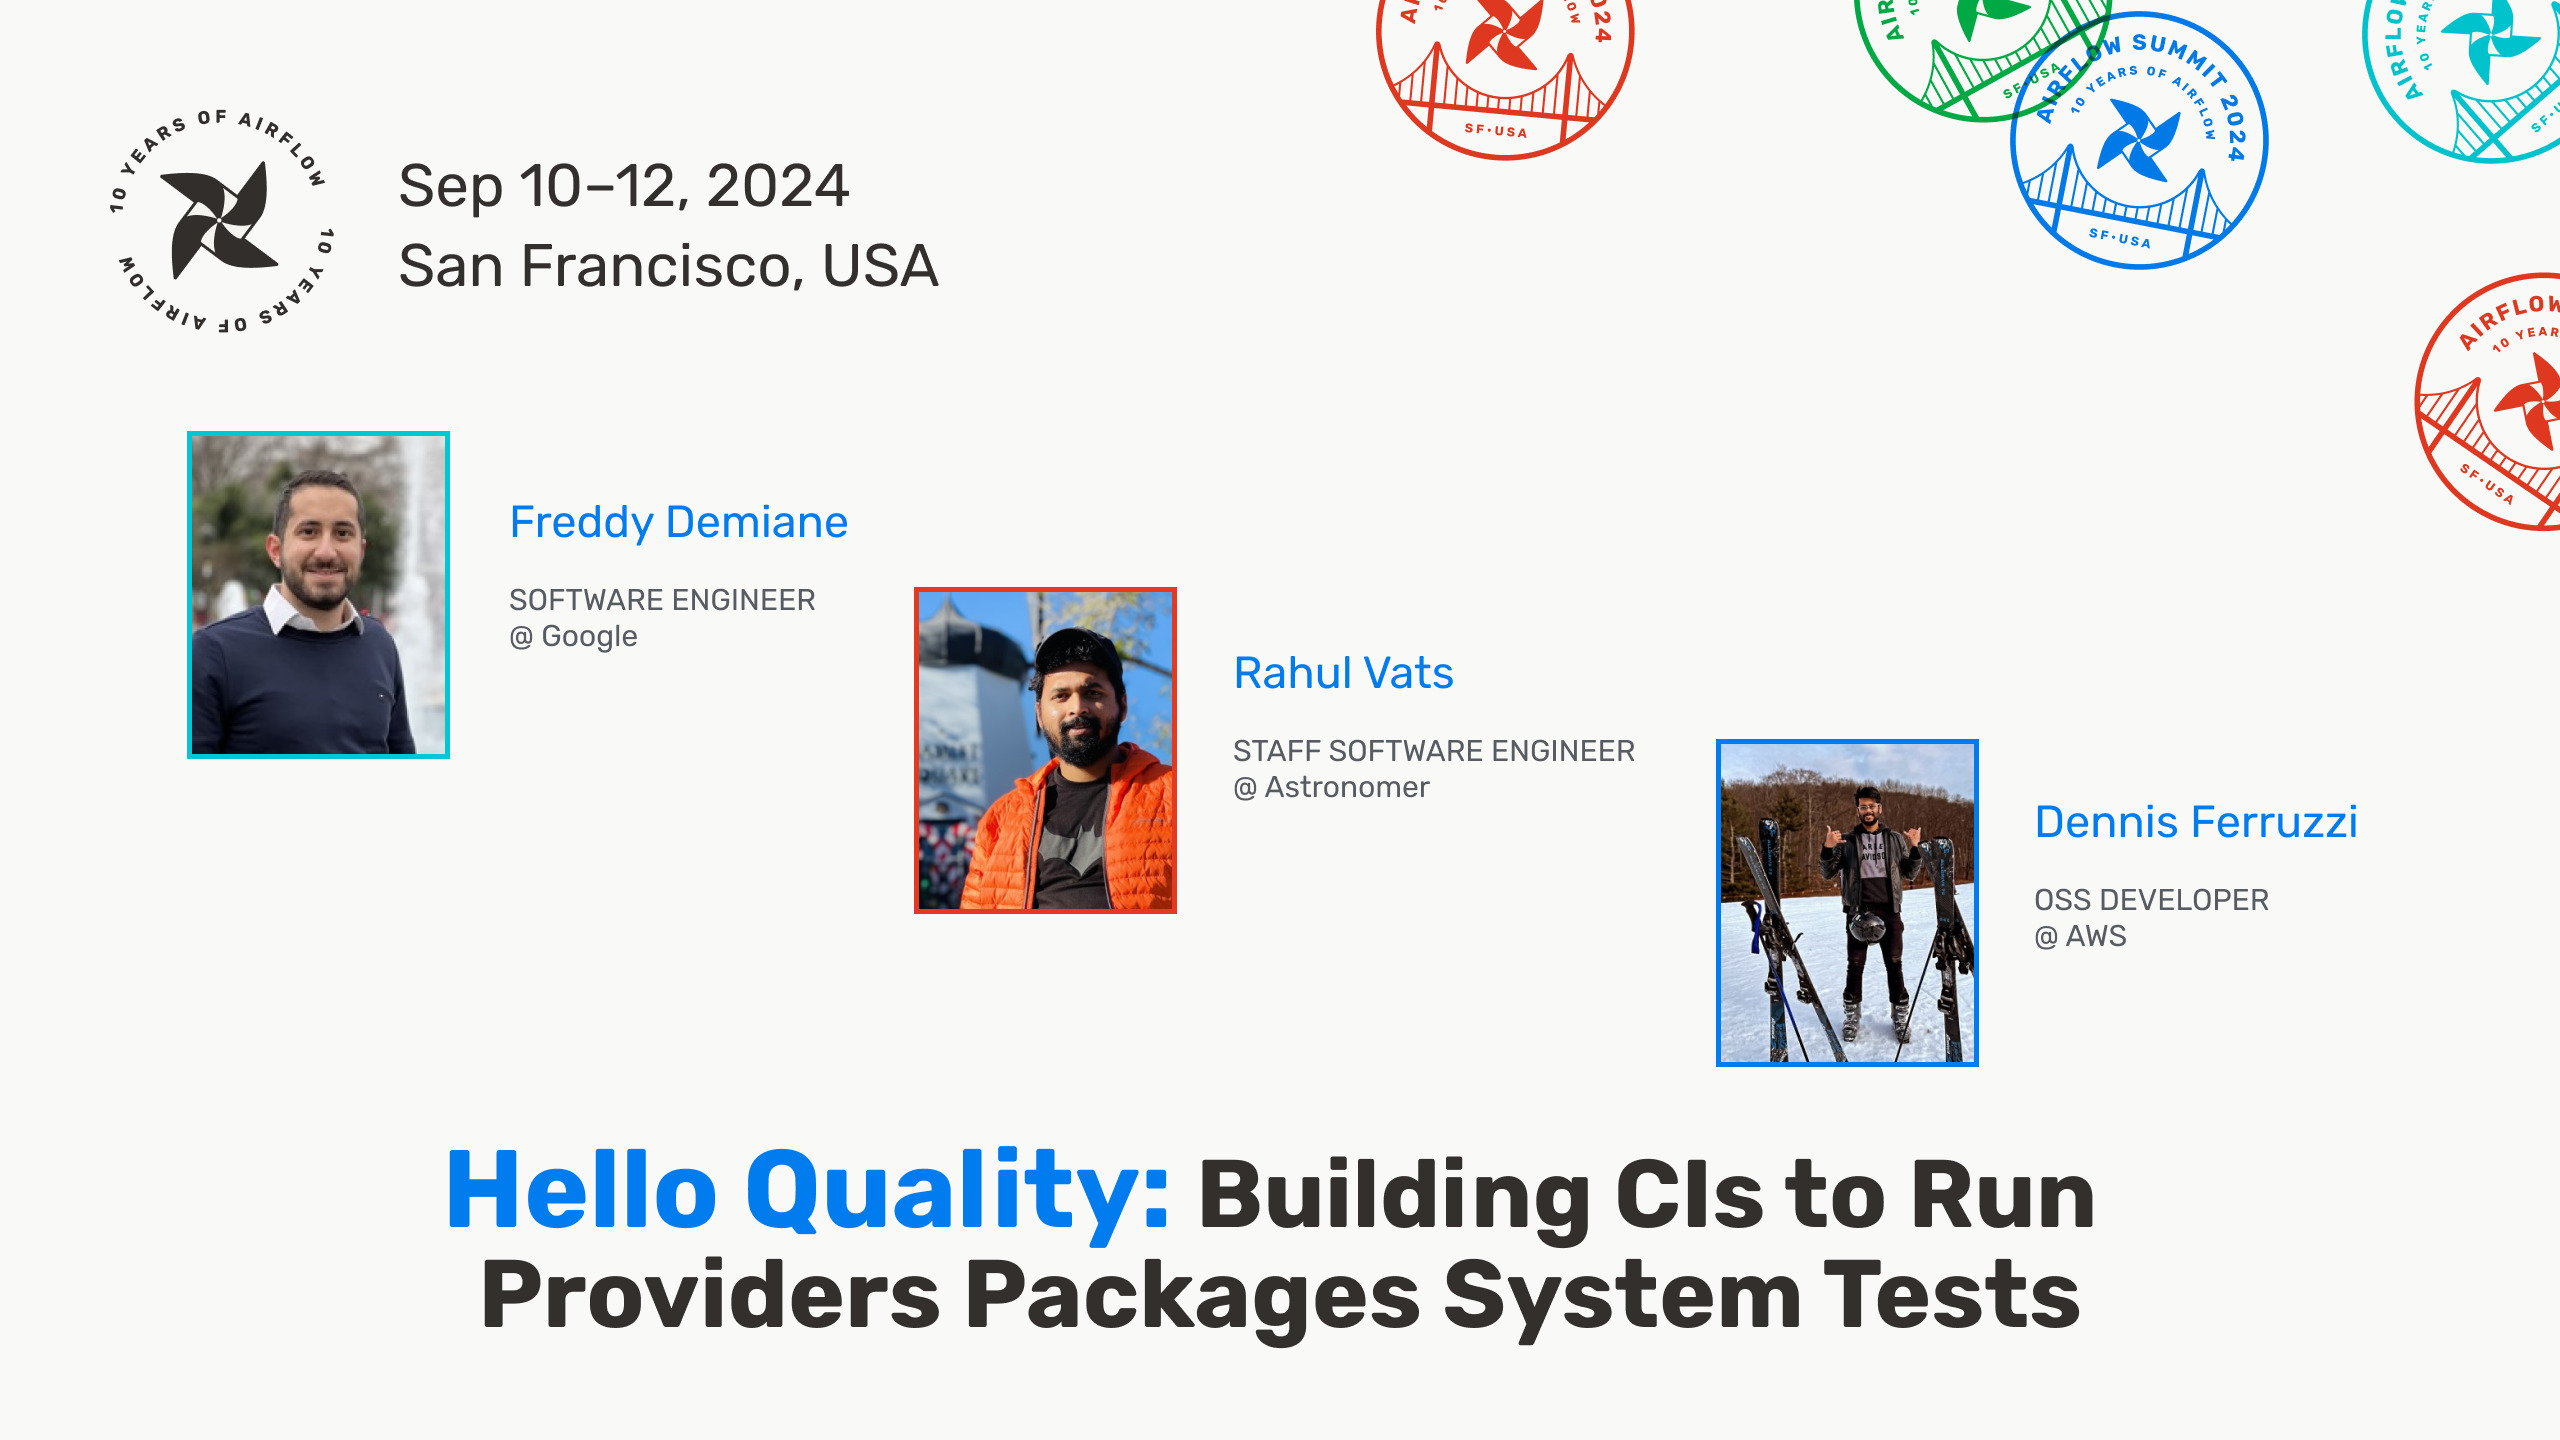
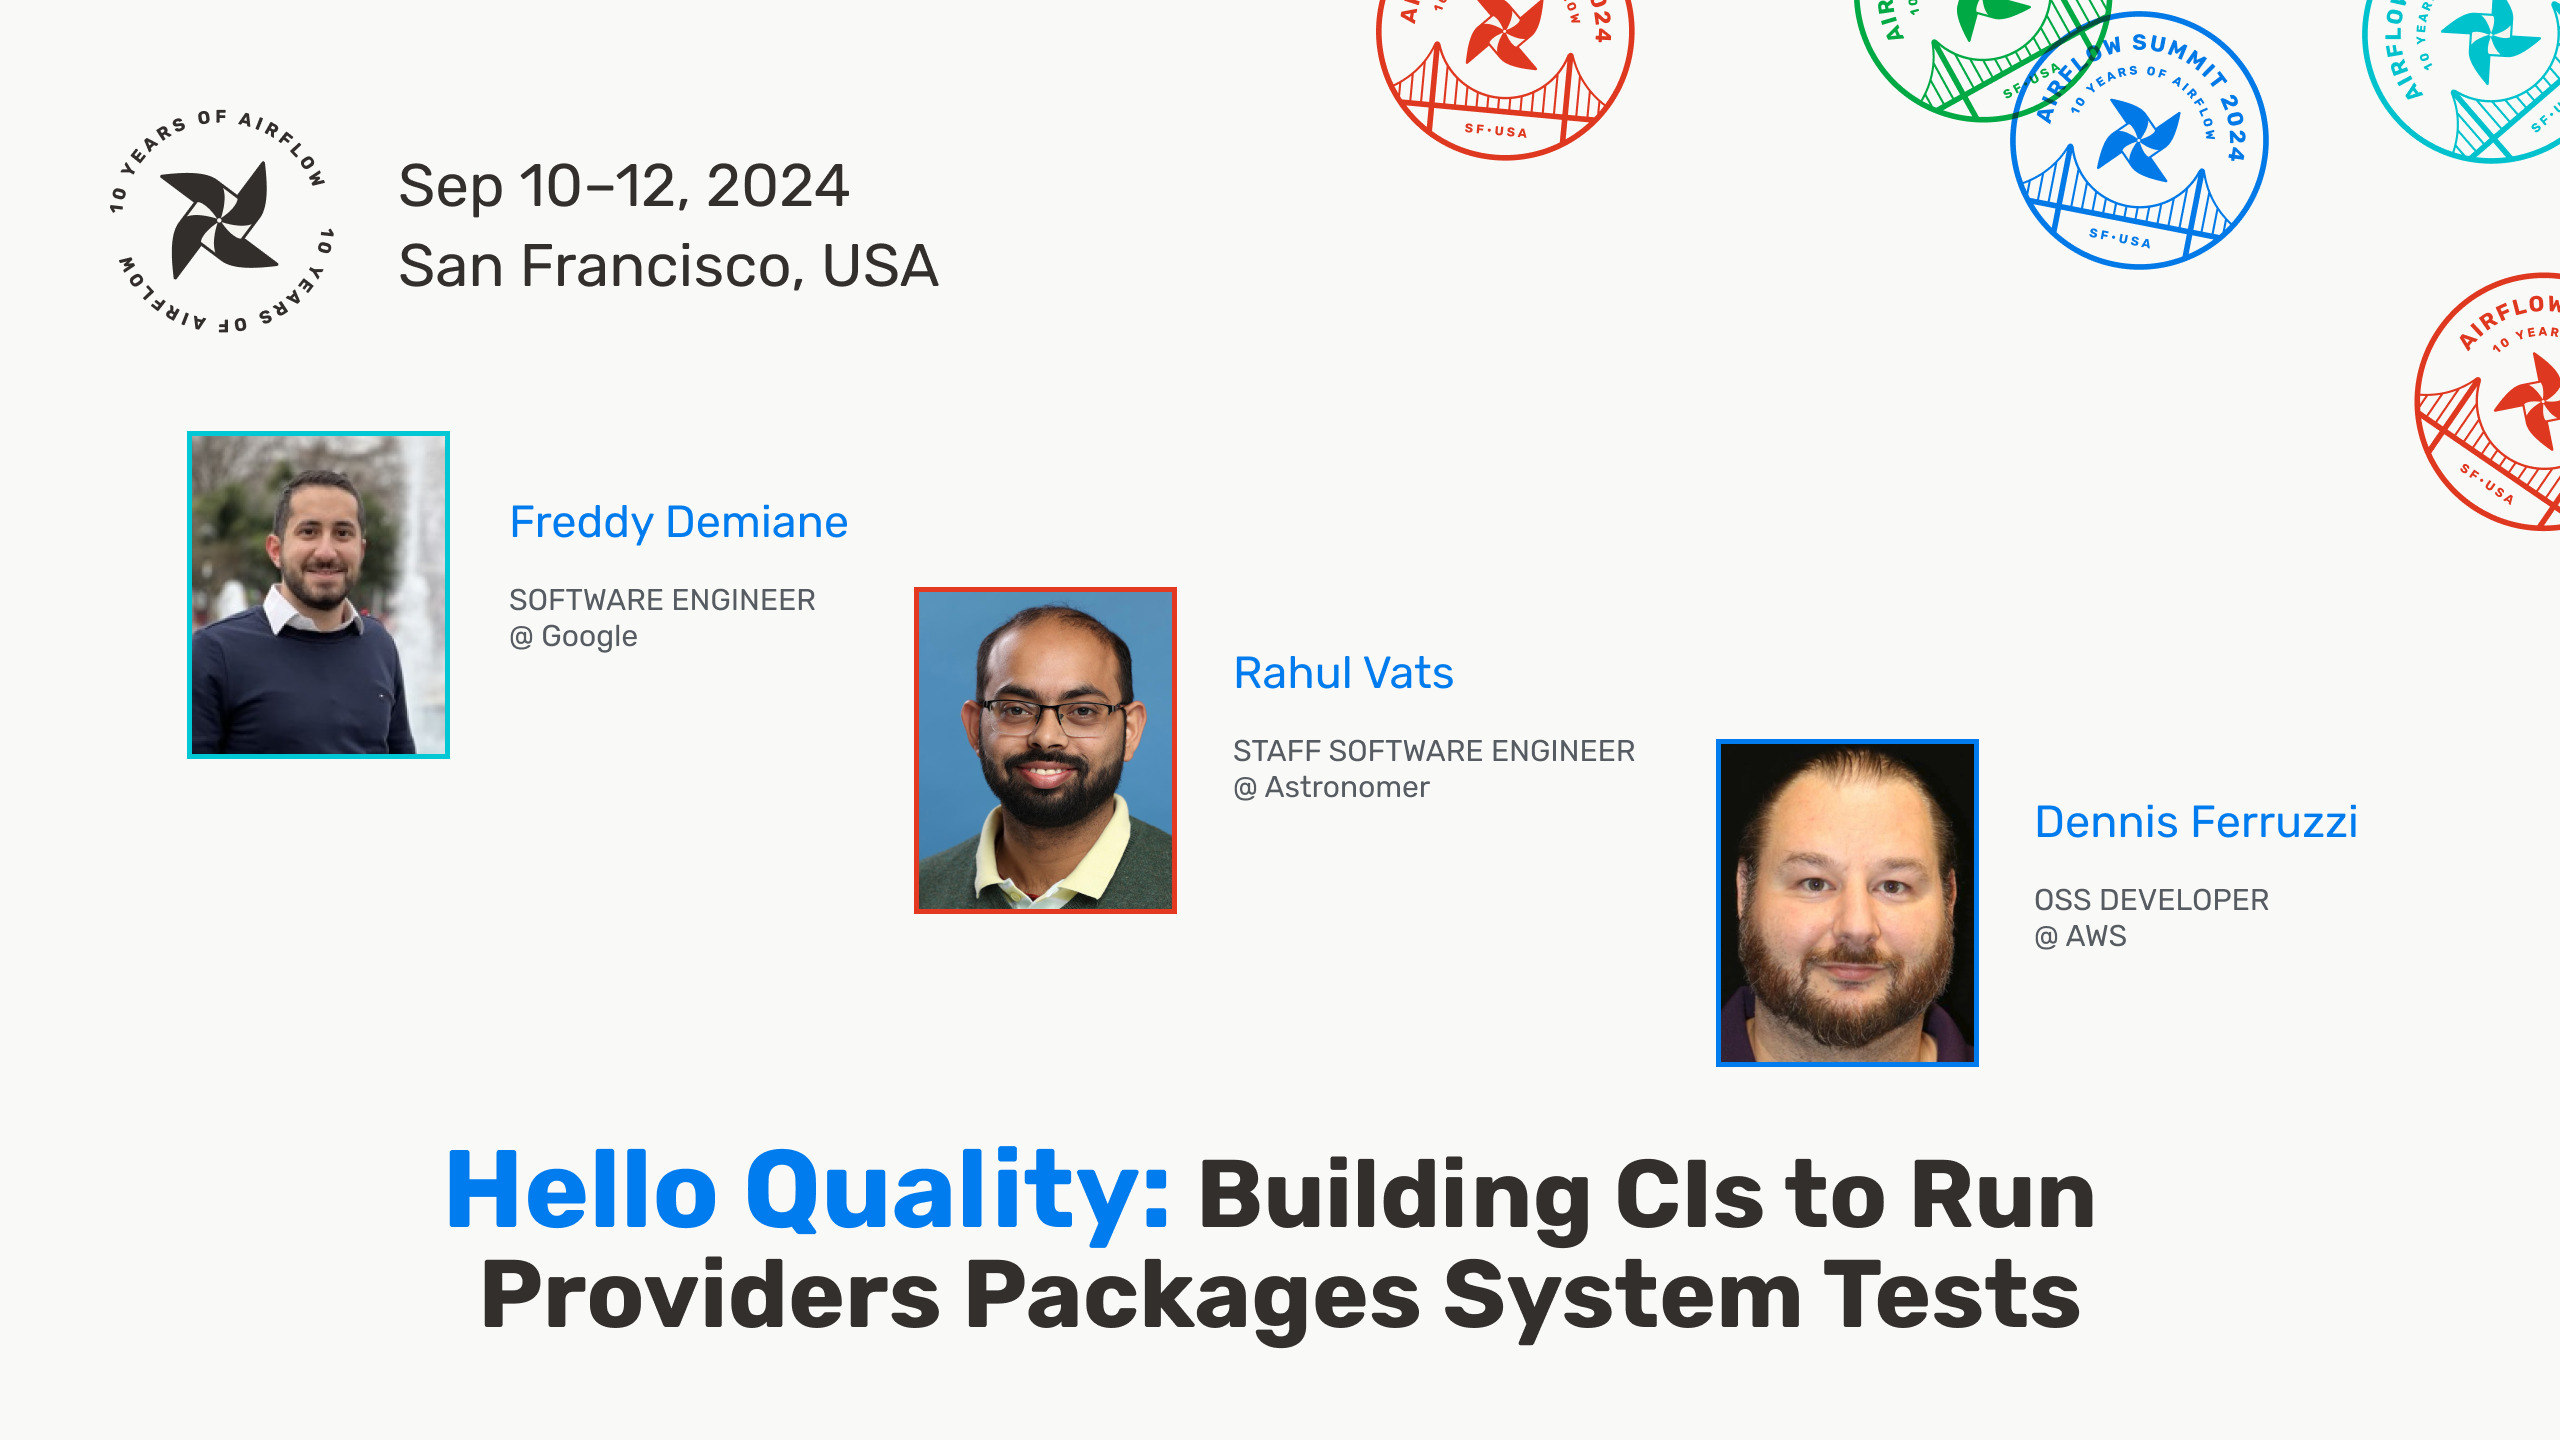
hello quality

Changed region(s): [[0.6562, 0.5, 0.7812, 0.75], [0.3438, 0.4062, 0.4688, 0.6562]]

diff --git a/content/speakers/rahul-vats/_index.md b/content/speakers/rahul-vats/_index.md
@@ -3,12 +3,13 @@ title: "Rahul Vats"
 date: 2024-08-01T15:20:20-05:00
 images: 
  - /images/speakers/rahul-vats.jpg
-designation: 
+designation: Staff Software Engineer at Astronomer
 twitter: 
-linkedin: 
+linkedin: https://www.linkedin.com/in/vats-rahul/
 github: 
 events:
  - 2024
 ---
 
+Rahul Vats, a seasoned Airflow contributor with 3+ years of experience, is passionate about testing Airflow features and new contributions using automated pipelines. His dedication ensures the platform's reliability and functionality, making significant contributions to Apache Airflow's advancement.
 
